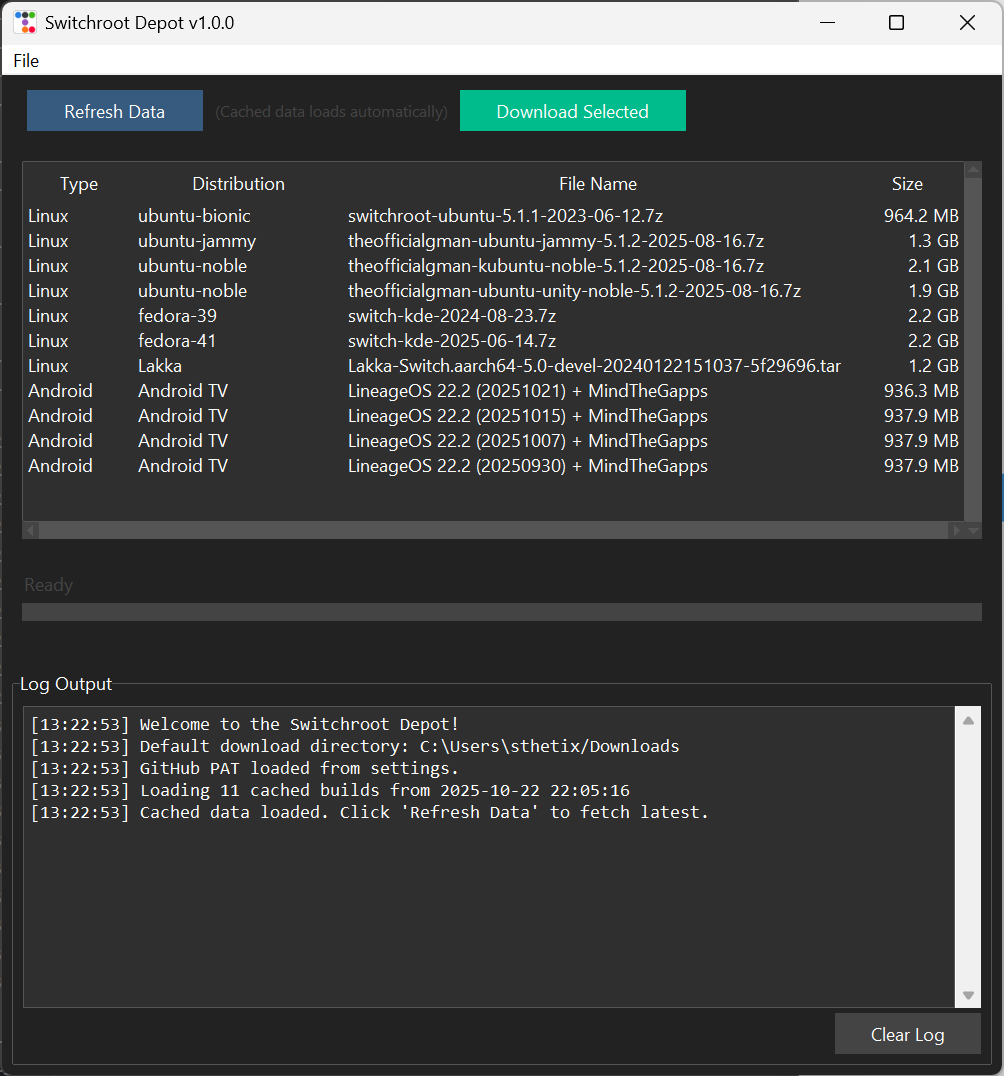
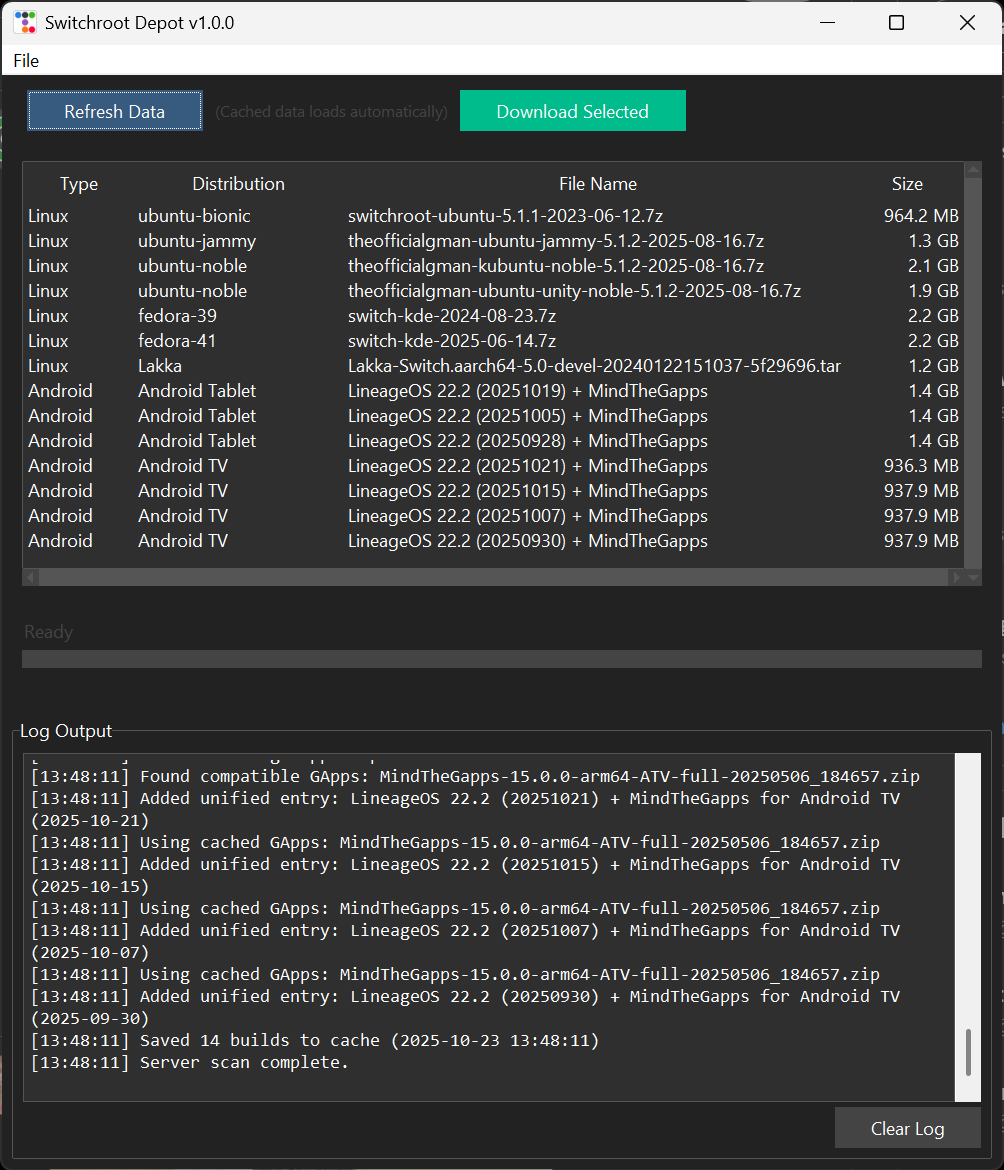
Update preview.png & py script

diff --git a/SwitchrootDepot.py b/SwitchrootDepot.py
@@ -161,6 +161,27 @@ class SwitchrootDownloader:
         self.download_lock = threading.Lock()  # Thread-safe counter
         self.session = requests.Session()  # Reusable session for connection pooling
 
+        # Configure session for better reliability
+        adapter = requests.adapters.HTTPAdapter(
+            max_retries=requests.adapters.Retry(
+                total=3,
+                backoff_factor=1,
+                status_forcelist=[429, 500, 502, 503, 504]
+            ),
+            pool_connections=10,
+            pool_maxsize=20
+        )
+        self.session.mount('http://', adapter)
+        self.session.mount('https://', adapter)
+
+        # Set reasonable headers to mimic browser behavior
+        self.session.headers.update({
+            'User-Agent': 'Mozilla/5.0 (Windows NT 10.0; Win64; x64) AppleWebKit/537.36 (KHTML, like Gecko) Chrome/120.0.0.0 Safari/537.36',
+            'Accept': 'application/json, text/plain, */*',
+            'Accept-Language': 'en-US,en;q=0.9',
+            'Connection': 'keep-alive'
+        })
+
         self.create_widgets()
         self.log_message("Welcome to the Switchroot Depot!")
         self.log_message(f"Default download directory: {self.download_dir}")
@@ -647,9 +668,31 @@ class SwitchrootDownloader:
             try:
                 url = self.ANDROID_API_URL.format(device_id)
                 self.log_message(f"Checking {device_name} API: {url}")
-                response = session.get(url, timeout=10)
-                response.raise_for_status()
-                builds = response.json()
+
+                # Retry logic with increased timeout (connect, read)
+                max_retries = 3
+                retry_delay = 2
+                for attempt in range(max_retries):
+                    try:
+                        # Separate connect and read timeouts: (connect_timeout, read_timeout)
+                        response = session.get(url, timeout=(10, 60))
+                        response.raise_for_status()
+                        builds = response.json()
+                        break
+                    except requests.Timeout as e:
+                        if attempt < max_retries - 1:
+                            self.log_message(f"Timeout on attempt {attempt + 1}/{max_retries} ({e}), retrying in {retry_delay}s...")
+                            time.sleep(retry_delay)
+                            retry_delay *= 2  # Exponential backoff
+                        else:
+                            raise
+                    except requests.RequestException as e:
+                        if attempt < max_retries - 1:
+                            self.log_message(f"Network error on attempt {attempt + 1}/{max_retries}: {e}, retrying...")
+                            time.sleep(retry_delay)
+                            retry_delay *= 2
+                        else:
+                            raise
 
                 if not builds:
                     self.log_message(f"No builds found for {device_name}.")
